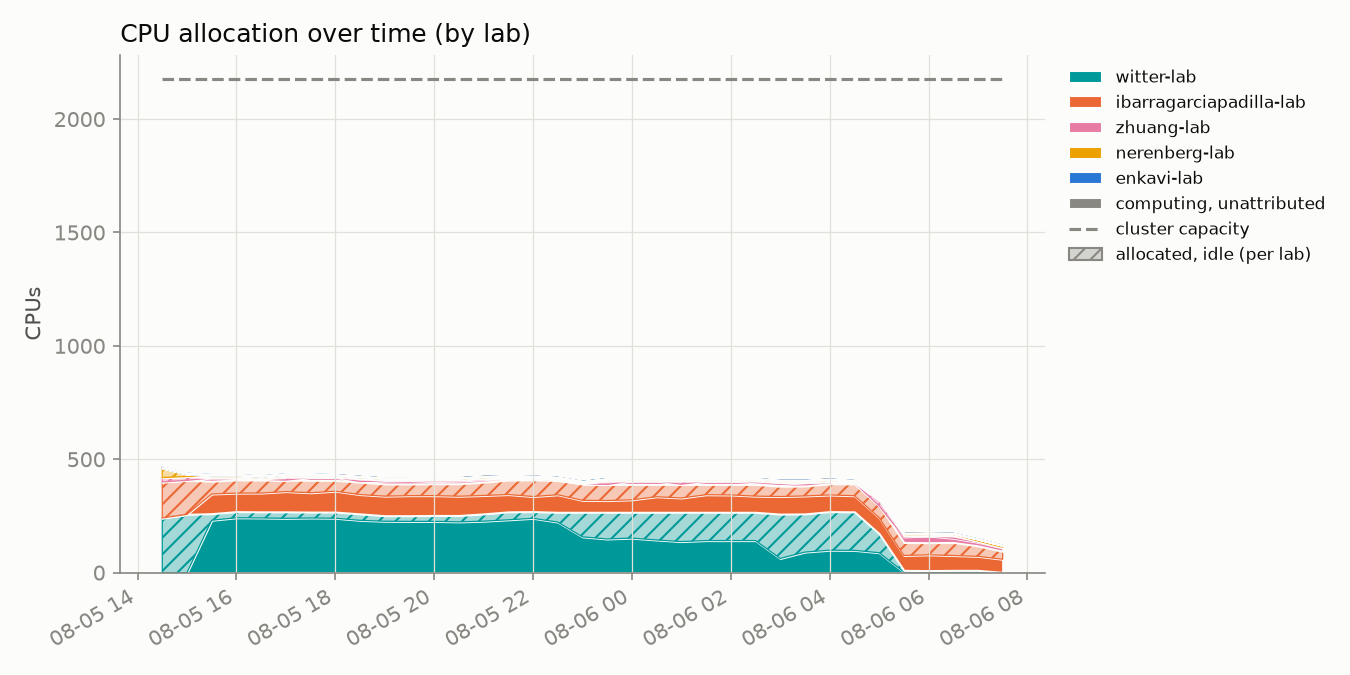
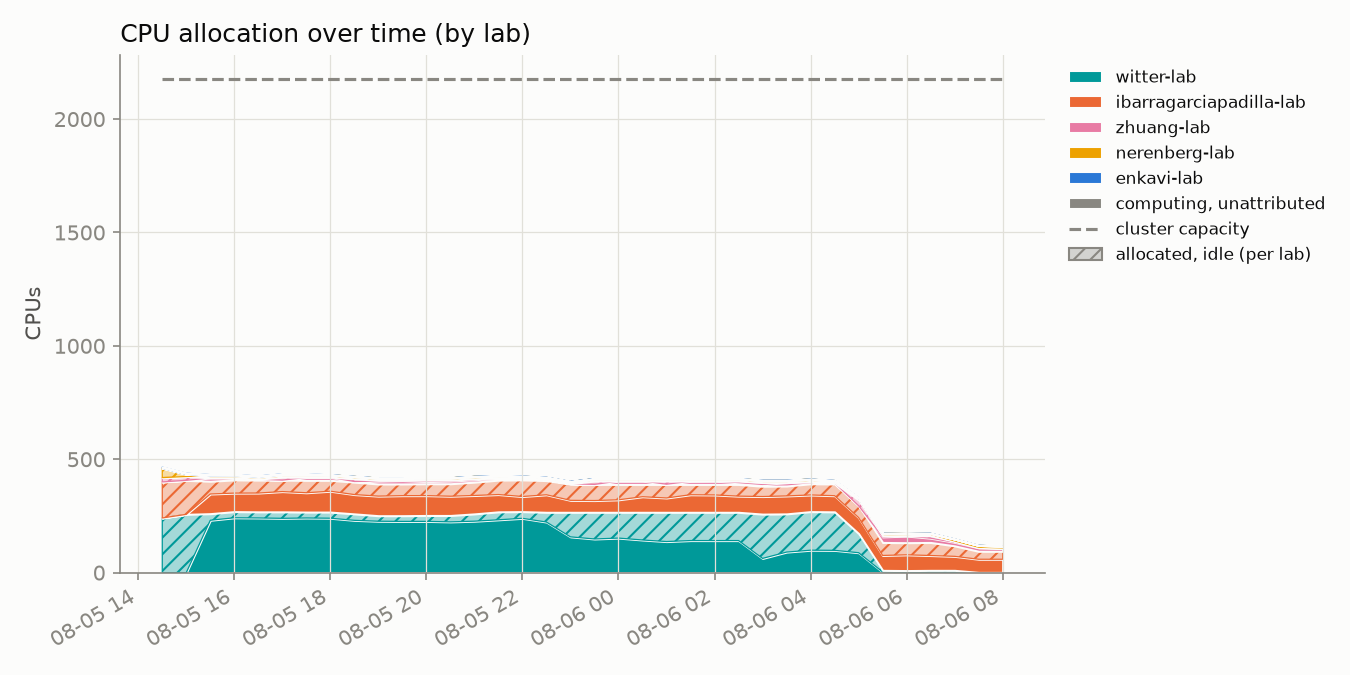
update 2026-08-06T08:00:01-07:00

diff --git a/README.md b/README.md
@@ -2,8 +2,8 @@
 
 Automated GPU/CPU/queue utilization tracker for `hopper.cluster`, updated every 30 minutes by cron. Usernames are anonymized to a stable per-account pseudonym; lab names are real.
 
-Last updated: 2026-08-06T07:30:13-07:00
-Samples: 35 queue snapshots, 35 GPU snapshots
+Last updated: 2026-08-06T08:00:14-07:00
+Samples: 36 queue snapshots, 36 GPU snapshots
 
 ## Resources
 
@@ -16,8 +16,8 @@ Samples: 35 queue snapshots, 35 GPU snapshots
 
 ## Headline
 
-- **78.4%** of the cluster's 60 GPUs allocated, averaged across all samples
-- **38.1%** average `nvidia-smi` utilization *when* a GPU is allocated to a job
+- **77.0%** of the cluster's 60 GPUs allocated, averaged across all samples
+- **38.0%** average `nvidia-smi` utilization *when* a GPU is allocated to a job
 - **81.2%** average cgroup CPU utilization *when* a CPU is allocated to a job
 
 ## Per lab / per user
@@ -25,13 +25,13 @@ Samples: 35 queue snapshots, 35 GPU snapshots
 <table>
 <tr><th>Lab</th><th>User</th><th align='right'>GPU-hours allocated</th><th align='right'>CPU-hours allocated</th><th align='right'>GPU utilization</th></tr>
 <tr style='background-color:#d8efef'><td>witter-lab</td><td>user-d58f5a15</td><td align='right'>467.5</td><td align='right'>3740.0</td><td align='right'>9%</td></tr>
-<tr style='background-color:#fbebf1'><td>zhuang-lab</td><td>user-0db9ced0</td><td align='right'>260.5</td><td align='right'>260.5</td><td align='right'>48%</td></tr>
-<tr style='background-color:#d8efef'><td>witter-lab</td><td>user-554c620c</td><td align='right'>60.5</td><td align='right'>169.0</td><td align='right'>73%</td></tr>
-<tr style='background-color:#fcf0d8'><td>nerenberg-lab</td><td>user-6bb5f332</td><td align='right'>35.0</td><td align='right'>175.0</td><td align='right'>71%</td></tr>
-<tr style='background-color:#fce8e0'><td>ibarragarciapadilla-lab</td><td>user-eec7ffae</td><td align='right'>0.0</td><td align='right'>214.0</td><td align='right'>—</td></tr>
-<tr style='background-color:#fce8e0'><td>ibarragarciapadilla-lab</td><td>user-3cfc41a3</td><td align='right'>0.0</td><td align='right'>2077.5</td><td align='right'>—</td></tr>
-<tr style='background-color:#dfeaf8'><td>enkavi-lab</td><td>user-c21bdaa4</td><td align='right'>0.0</td><td align='right'>14.0</td><td align='right'>—</td></tr>
+<tr style='background-color:#fbebf1'><td>zhuang-lab</td><td>user-0db9ced0</td><td align='right'>267.0</td><td align='right'>267.0</td><td align='right'>47%</td></tr>
+<tr style='background-color:#d8efef'><td>witter-lab</td><td>user-554c620c</td><td align='right'>61.0</td><td align='right'>169.5</td><td align='right'>72%</td></tr>
+<tr style='background-color:#fcf0d8'><td>nerenberg-lab</td><td>user-6bb5f332</td><td align='right'>36.0</td><td align='right'>180.0</td><td align='right'>71%</td></tr>
 <tr style='background-color:#fcf0d8'><td>nerenberg-lab</td><td>user-b12dc074</td><td align='right'>0.0</td><td align='right'>16.0</td><td align='right'>—</td></tr>
+<tr style='background-color:#dfeaf8'><td>enkavi-lab</td><td>user-c21bdaa4</td><td align='right'>0.0</td><td align='right'>14.0</td><td align='right'>—</td></tr>
+<tr style='background-color:#fce8e0'><td>ibarragarciapadilla-lab</td><td>user-3cfc41a3</td><td align='right'>0.0</td><td align='right'>2122.5</td><td align='right'>—</td></tr>
+<tr style='background-color:#fce8e0'><td>ibarragarciapadilla-lab</td><td>user-eec7ffae</td><td align='right'>0.0</td><td align='right'>215.5</td><td align='right'>—</td></tr>
 </table>
 
 (Row background is each lab's chart color, lightened, matching the charts above. GitHub strips inline CSS, so this table renders plain on github.com; the tint shows in renderers that keep inline styles, e.g. a local Markdown preview.)
@@ -44,7 +44,7 @@ Samples: 35 queue snapshots, 35 GPU snapshots
 
 Both charts share the same structure: solid color is *utilized* by lab, translucent + hatched (same color) on top of it is that lab's *allocated but idle*, solid gray above that is usage that couldn't be traced to a job or lab, and the dashed line is total cluster capacity - any gap above it is unallocated headroom. CPU utilization comes from cgroup v2 accounting (`cpu.stat`'s `usage_usec`, cumulative CPU time per job) read directly off each node, since `sstat` returns nothing usable for this on this cluster.
 
-Attribution is cross-referenced two ways: `nvidia-smi`'s own process listing (misses containerized/namespaced processes), backfilled from Slurm's GPU-to-job binding record (`scontrol show job -dd`). The scontrol fallback attributed **1269** GPU readings this run that the process-listing path missed.
+Attribution is cross-referenced two ways: `nvidia-smi`'s own process listing (misses containerized/namespaced processes), backfilled from Slurm's GPU-to-job binding record (`scontrol show job -dd`). The scontrol fallback attributed **1279** GPU readings this run that the process-listing path missed.
 
 ## Queue
 
@@ -56,7 +56,7 @@ Only jobs Slurm is actively scoring for scheduling (has a `sprio` priority) coun
 
 ![CPU usage vs GPU usage, decayed](assets/cpu_gpu_usage.png)
 
-Each point is one user at one snapshot (n=215), not averaged over time, to show how a user's position moves rather than collapsing it to a single number. Both axes are usage decayed with Slurm's own ~7-day fairshare half-life (`PriorityDecayHalfLife` on this cluster), not a lifetime total or a per-day average.
+Each point is one user at one snapshot (n=220), not averaged over time, to show how a user's position moves rather than collapsing it to a single number. Both axes are usage decayed with Slurm's own ~7-day fairshare half-life (`PriorityDecayHalfLife` on this cluster), not a lifetime total or a per-day average.
 
 **CPU usage (x-axis) is essentially what earns priority here; GPU usage (y-axis) is what Slurm could weight the same way but doesn't**: `PriorityWeightTRES` is unset, and partition `main` has no `TRESBillingWeights` configured, so fairshare usage accounting bills by CPU count alone - a job holding 4 GPUs and 8 CPUs accrues the same usage debt as an 8-CPU, no-GPU job. The users worth a second look are in the **upper-left**: low decayed CPU usage (high, unpenalized fairshare priority) paired with high decayed GPU usage.
 
